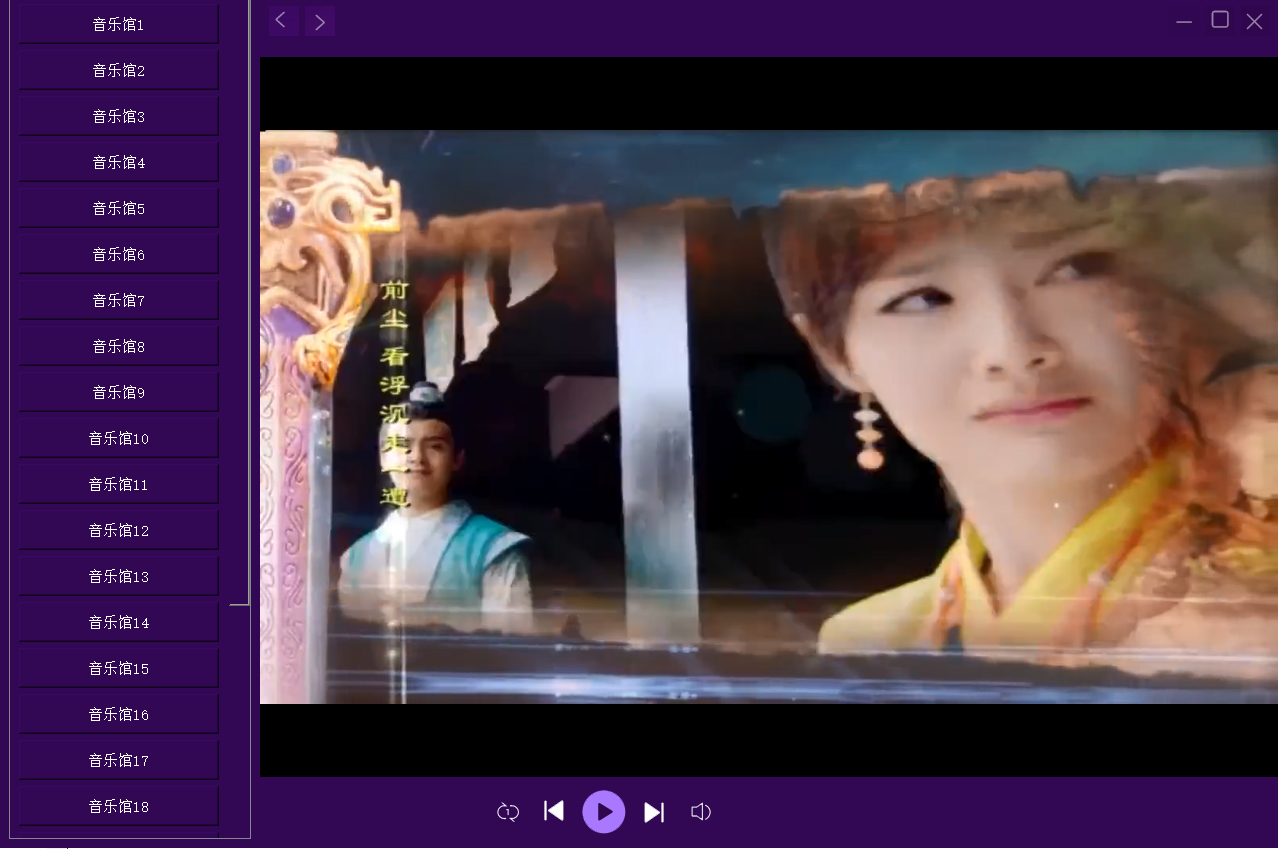
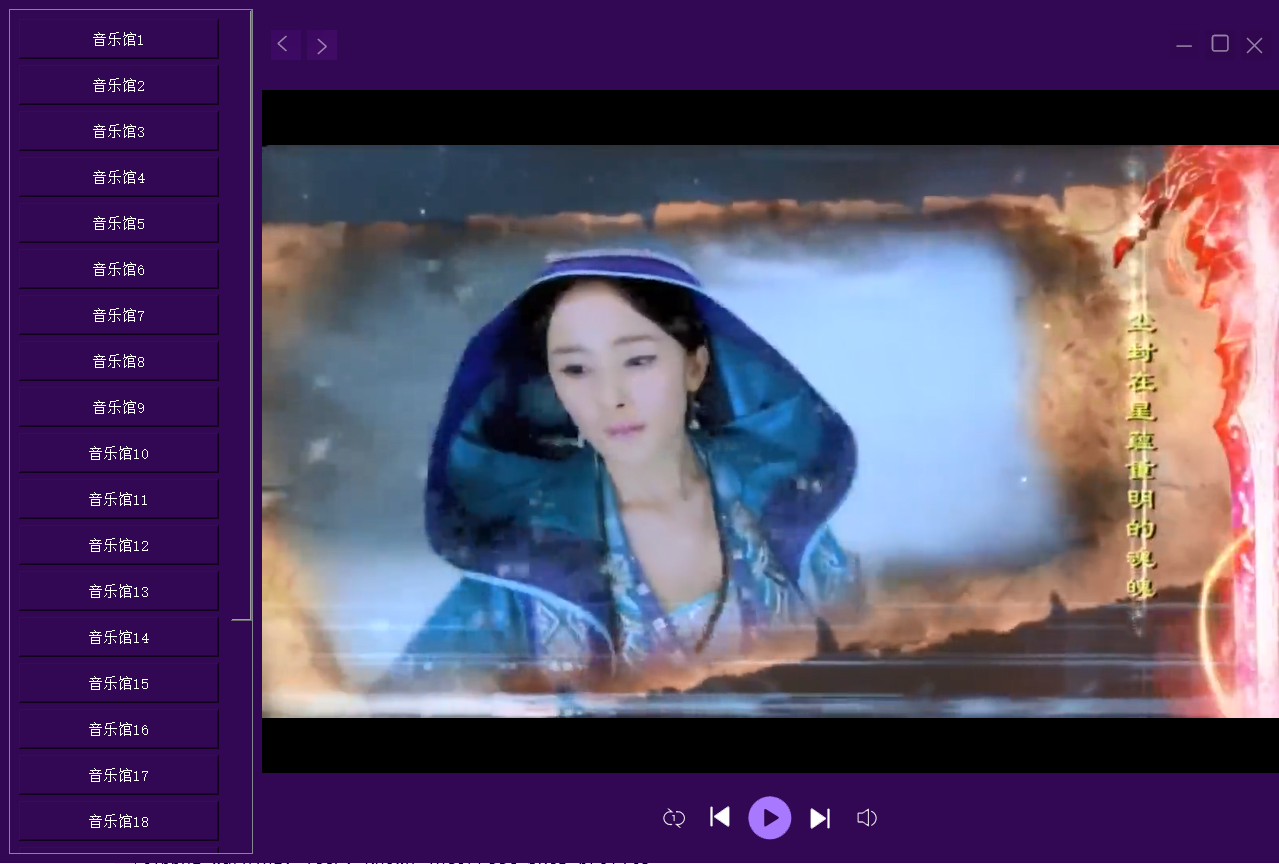
adjust bottomwidgets layout and update hhmusic.png

diff --git a/bottomwidget.cpp b/bottomwidget.cpp
@@ -19,7 +19,7 @@ BottomWidget::BottomWidget(QWidget *parent) : QWidget(parent)
     m_hLayout->addWidget(m_playBtn.get());
     m_hLayout->addWidget(m_nextBtn.get());
     m_hLayout->addWidget(m_volumeBtn.get());
-    m_hLayout->addStretch(25);
+    m_hLayout->addStretch(10);  //bottomwidget layout will be compact to middle(if set 25 will compact to left)
 
 //    QPalette palette(QColor(50, 8, 85));
 //    this->setPalette(palette);
